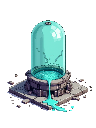
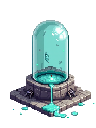
working on lab

Changed region(s): [[0.0625, 0.1562, 0.9688, 0.9375], [0.9688, 0.7812, 1.0, 0.8125]]

diff --git a/assets/tiles/walls.tsx b/assets/tiles/walls.tsx
@@ -1,6 +1,6 @@
 <?xml version="1.0" encoding="UTF-8"?>
-<tileset version="1.10" tiledversion="1.11.2" name="walls" tilewidth="64" tileheight="109" tilecount="1" columns="1">
- <tileoffset x="0" y="64"/>
+<tileset version="1.10" tiledversion="1.11.2" name="walls" tilewidth="64" tileheight="109" tilecount="2" columns="2" objectalignment="bottom">
+ <tileoffset x="0" y="20"/>
  <grid orientation="orthogonal" width="62" height="109"/>
- <image source="walls.png" width="64" height="109"/>
+ <image source="walls.png" width="128" height="109"/>
 </tileset>
